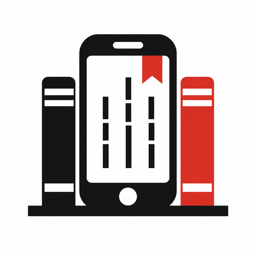
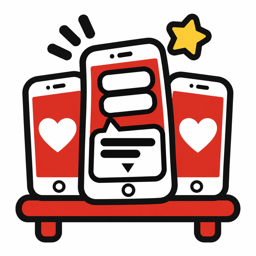
見た目をゲーム寄りに直し、ロゴをスマホの棚の案に替える
明朝と墨・朱の平たい作りが電子書籍や役所のように固く見えたため。
丸ゴシックの字、太い墨の枠と下に落ちる影、ステッカー風の札、
台詞ウィンドウ風のピックアップ（▼ の送りの印）、メダルの順位で、
ノベルゲームの棚らしく寄せた。gh-pages への配りをスクリプトにする。

diff --git a/style.css b/style.css
@@ -196,7 +196,7 @@ a{color:inherit;text-decoration:none}
 /* ── サイト版の足し分 ── */
 .top{background:rgba(255,255,255,.94)}
 .logo{display:flex;align-items:center}
-.logo img{height:32px;width:auto;display:block}
+.logo img{height:34px;width:auto;display:block}
 .sp{flex:1}
 .ic svg{width:22px;height:22px}
 .tabbar a svg{width:24px;height:24px}
@@ -222,3 +222,78 @@ a{color:inherit;text-decoration:none}
 .rank-row .cover{width:56px}
 .hero-card .art{background-color:#111}
 .dim{display:block}
+
+/* ── ゲームらしさ（丸い字・押せるボタン・台詞ウィンドウ・ステッカー） ── */
+:root{
+  --round:"M PLUS Rounded 1c","Hiragino Maru Gothic ProN","Hiragino Sans",sans-serif;
+  --bg:#fff7ec; --soft:#ffeedd; --line:#f0dcc6; --sun:#ffc83d; --sky:#3d8bff; --mint:#2fbf8f;
+}
+body{font-family:var(--round);background-color:var(--bg);
+  background-image:radial-gradient(rgba(217,52,43,.07) 1.2px,transparent 1.3px);background-size:18px 18px}
+.top{background:rgba(255,255,255,.96);border-bottom:3px solid var(--ink)}
+.tabs a{font-family:var(--round);font-weight:800;border:2px solid transparent}
+.tabs a:not(.on){background:#fff;border-color:var(--line);color:var(--ink)}
+.tabs a.on{background:var(--accent);box-shadow:0 3px 0 #8f1d17}
+
+.sec-h h3{font-family:var(--round);font-weight:900;font-size:18px;display:flex;align-items:center;gap:8px}
+.sec-h h3::before{content:"";width:12px;height:12px;border-radius:3px;background:var(--accent);transform:rotate(45deg);box-shadow:3px 3px 0 var(--sun)}
+.sec-h a{font-weight:800;color:var(--accent)}
+
+.hero-card{border:3px solid var(--ink);box-shadow:0 6px 0 var(--ink);border-radius:18px}
+.hero-card::after{background:linear-gradient(180deg,rgba(0,0,0,0) 30%,rgba(0,0,0,.35))}
+.hero-card .txt{left:12px;right:12px;bottom:12px;background:rgba(14,14,20,.88);border:2px solid #fff;border-radius:12px;padding:10px 12px 14px;box-shadow:0 0 0 3px rgba(14,14,20,.88)}
+.hero-card .txt::after{content:"▼";position:absolute;right:10px;bottom:4px;font-size:11px;color:var(--sun);animation:blink 1s steps(2) infinite}
+.hero-card h2{font-size:20px}
+.hero-card .lbl{position:absolute;top:-14px;left:10px;margin:0;background:var(--sun);color:var(--ink);border:2px solid var(--ink);border-radius:999px;padding:1px 10px;font-weight:900;transform:rotate(-4deg)}
+@keyframes blink{50%{opacity:0}}
+.dots i.on{background:var(--accent)}
+
+.cover{border-radius:12px;border:3px solid #fff;box-shadow:0 4px 0 rgba(24,24,27,.85),0 6px 14px rgba(0,0,0,.18);transition:transform .15s}
+.book:hover .cover,.book:active .cover{transform:translateY(-3px) rotate(-1.5deg)}
+.cover .badge{border:2px solid #fff;border-radius:999px;padding:1px 8px;transform:rotate(-6deg);top:8px;left:6px;font-weight:900}
+.cover .badge.new{background:var(--sky)}
+.cover .badge.mock{background:rgba(24,24,27,.8)}
+.book .bt{font-family:var(--round);font-weight:900}
+
+.av{border:3px solid var(--ink);box-shadow:0 3px 0 var(--ink)}
+.au{font-family:var(--round)}
+
+.rank-row{border:2px solid var(--ink);box-shadow:0 4px 0 var(--ink);border-radius:14px}
+.rank-no{width:34px;height:34px;border-radius:50%;display:grid;place-items:center;font:900 17px var(--round);background:#eee;color:var(--ink);border:2px solid var(--ink);flex:none}
+.rank-no.r1{background:var(--sun);color:var(--ink)}
+.rank-no.r2{background:#dfe6ee;color:var(--ink)}
+.rank-no.r3{background:#f2b98a;color:var(--ink)}
+.chip{background:#fff;border:1.5px solid var(--line);color:var(--ink)}
+
+.btn{border-radius:999px;font-family:var(--round);font-weight:900;letter-spacing:.04em;box-shadow:0 5px 0 #8f1d17;border:2px solid var(--ink);transition:transform .08s,box-shadow .08s}
+.btn:active{transform:translateY(4px);box-shadow:0 1px 0 #8f1d17}
+.btn.ghost{border-radius:16px;box-shadow:0 4px 0 var(--line);border-color:var(--line);background:#fff}
+.btn.off{box-shadow:0 5px 0 #9a978f;border-color:#9a978f}
+.cta,.tabbar{border-top:3px solid var(--ink)}
+.tabbar a{font-family:var(--round);font-weight:800}
+.tabbar a.on{color:var(--accent)}
+
+.wk-head h1{font-size:28px;text-shadow:0 3px 0 rgba(0,0,0,.4)}
+.stats{border-bottom:3px solid var(--ink)}
+.stats b{font-family:var(--round);font-weight:900}
+.box{border-radius:16px;margin:12px;border:2px solid var(--line);box-shadow:0 3px 0 var(--line)}
+.box h4{font-family:var(--round);font-weight:900}
+.warn{border:2px solid #f3c27a;border-radius:999px}
+.age{border-radius:999px;background:var(--ink);color:#fff;padding:0 8px;border:0}
+
+.sheet{border-top:3px solid var(--ink);border-radius:24px 24px 0 0}
+.sheet h2{font-size:24px}
+.sheet .subt{font-family:var(--round);font-weight:900;color:var(--accent);letter-spacing:.2em}
+.li .i{border:2px solid var(--line);border-radius:12px}
+.li .i.w{border-color:#f3c27a}
+.msg{border:2px solid var(--ink);border-left:6px solid var(--accent);border-radius:12px;background:#fff;position:relative}
+.msg::after{content:"▼";position:absolute;right:10px;bottom:6px;font-size:10px;color:var(--accent);animation:blink 1s steps(2) infinite}
+.chk{border:2px dashed var(--line);border-radius:14px;background:#fffdf8}
+
+.au-head{border-bottom:3px solid var(--ink)}
+.news div{border:2px solid var(--line);border-radius:14px;box-shadow:0 3px 0 var(--line)}
+.doc h2{border-left:none;padding-left:0;display:flex;align-items:center;gap:8px;font-family:var(--round);font-weight:900}
+.doc h2::before{content:"";width:12px;height:12px;border-radius:3px;background:var(--accent);transform:rotate(45deg);box-shadow:3px 3px 0 var(--sun)}
+.toc,.tbl{border:2px solid var(--ink);box-shadow:0 4px 0 var(--ink)}
+.foot a{color:var(--accent)}
+.cover.title-v .badge.mock{top:auto;bottom:8px}
